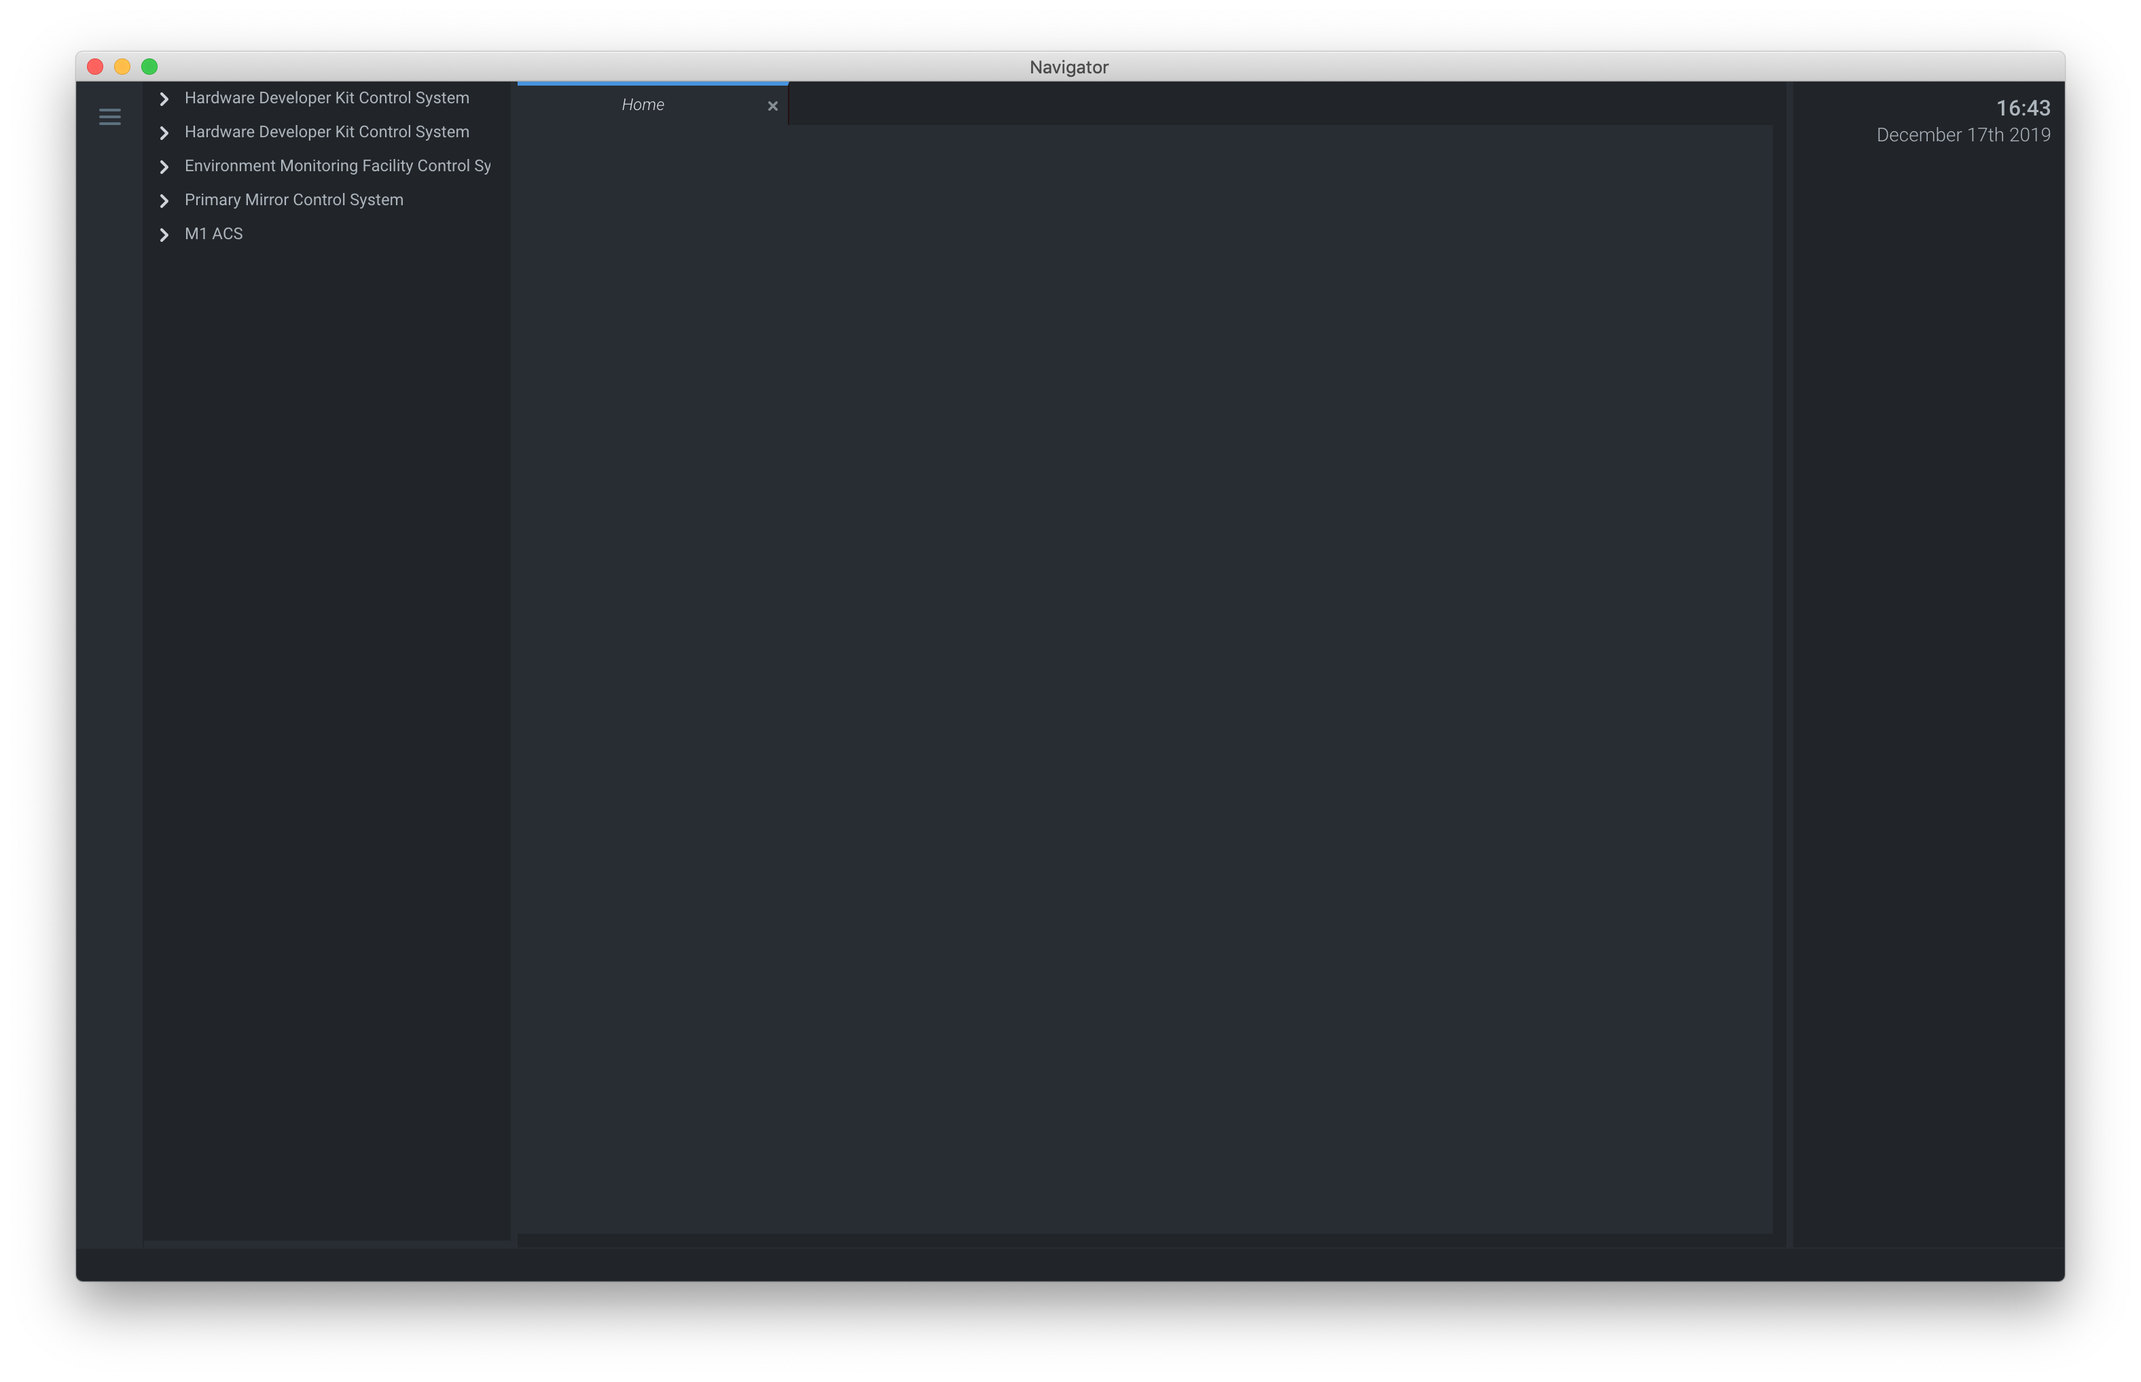
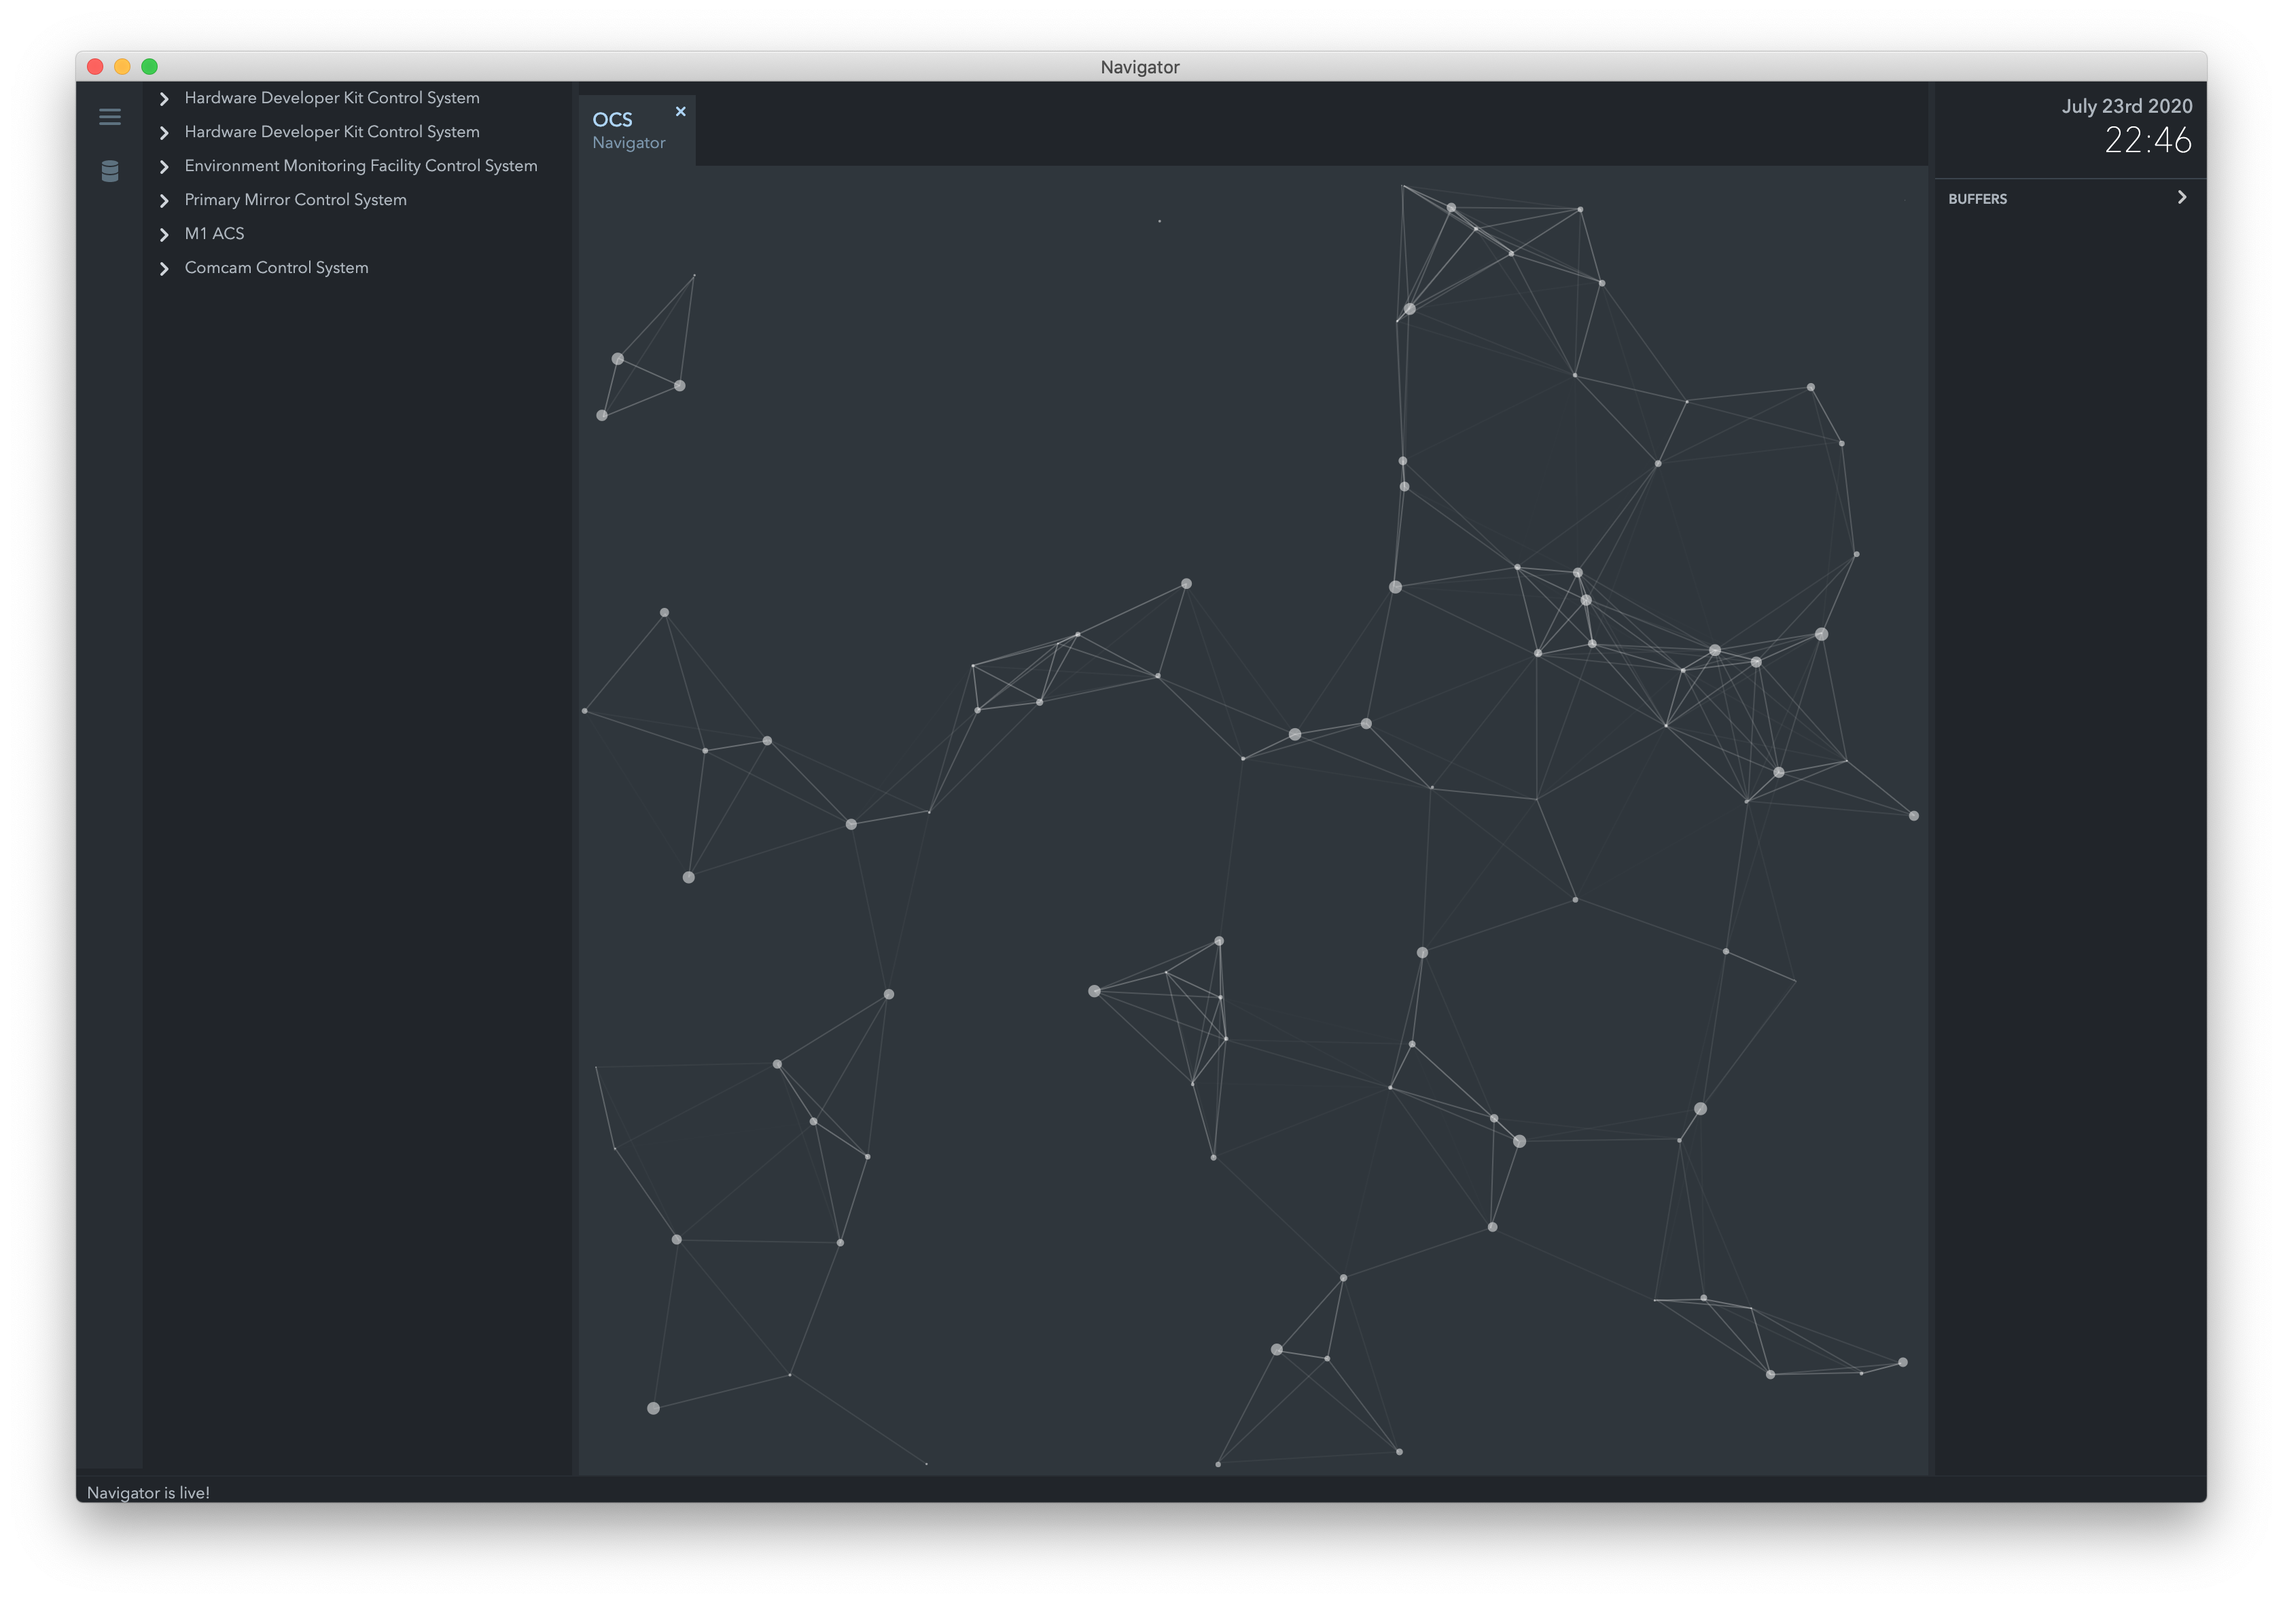
ui 1.8 update

diff --git a/src/software_development/ui_fwk.rst b/src/software_development/ui_fwk.rst
@@ -3,36 +3,31 @@
 UI Framework
 ============
 
-.. note::
-    The UI framework is currently supported on MacOS and Linux.
+The UI Framework provides a GUI toolkit for the OCS.  One of the GUI apps is called Navigator, and sometimes referred to as the "Engineering UI", as it allows you to visualize models built with OCS SDK.  You can use the Engineering UI to see the data produced and consumed by your controllers.
 
-The UI Framework introduces a set of libraries and a windowed application that provides a GUI for the OCS.  The framework handles three primary concerns
-
-* Rendering (drawing) elements to the screen (DOM) 
-* Library of re-usable UI components that can be shared across the project
-* An Engineering App that provides an interface to the OCS
+Navigator can run on MacOS or a Linux Desktop environment.  macOS Mojave, Catalina and CentOS 8 Desktop have been verified.
 
 Installation
 ------------
 
-The UI engineering app uses the local bundles defined in ``$GMT_LOCAL/etc/bundles`` to create a visual representation of your model files' input/output ports.  If the Navigator app runs in a computer separate from where you run your components, you will need to create a minimal ``$GMT_LOCAL`` environment so that Navigator can boostrap your model and configuration files from your computer.  By convention it should be a directory in your home folder.  Once you create an ``<ocs_local>`` folder, in your shell environment file, add the following to your shell. 
+To install Navigator you will need to donwload the packaged app and set up your local environment.
+
+To download for macOS click here @TODO.  To download for CentOS Desktop click here @TODO.
+
+Setting up your enviornment
+###########################
+
+The Engineering UI uses the ``gmt_env`` if you have set that up.  If you don't have that, you'll need to set up a ``$GMT_LOCAL`` environment.  This is very similar to setting up the SDK.  
 
 .. note::
     For bash, you'll need to edit the ``~\.bash_profile``. For zsh you'll need to edit ``~\.zshrc``.
 
-.. code-block:: bash
-
-    # GMT Environment
-    export GMT_LOCAL=/Users/<user>/<ocs_local>
-
-where ``<user>`` is your home folder and ``<ocs_local>`` is the designated OCS local folder. For example, my environment contains
+To set up a ``$GMT_LOCAL`` environment, first designate a directory and set your ``~\.bash_profile`` or ``~\.zshrc`` environment variables.  Asumming the path is ``/home/gmto/working_dir``, then your export should look like
 
 .. code-block:: bash
+  export GMT_LOCAL=/home/gmto/working_dir
 
-    # GMT Environment
-    export GMT_LOCAL=/Users/aroman/ocs/
-
-In the ``<ocs_local>`` directory, you'll need to create this folder structure and two files.
+Create the following folder structure in your ``$GMT_LOCAL`` directory
 
 .. code-block:: bash
 
@@ -60,47 +55,68 @@ The ``ocs_local_bundle.coffee`` should look like
         desc:      "List of local development modules"
         elements:  {}
 
-This will give you the base parameters to load the local environment. The ``elements`` key in this example is intentionally empty. This will change as you add OCS bundles.
+This will give you the base parameters to load the local environment. The ``elements`` key in this example is intentionally empty. This will change as you add OCS bundles.  You will need to have corresponding model files for the bundles you define.
 
 .. note::
     
     The bundles you define need to have corresponding webpack model files in ``$GMT_LOCAL/lib/js``.  You will need to copy these files on your own.
 
-After you've done this, download the Mac App
-
-* http://52.52.46.32/srv/gmt/releases/navigator/mac/ocs_navigator_app_1.7.0.zip
-
-You can unzip the app anywhere on your MacOS file system.  Double click on the icon to run.
+Now you can star the Navigator app by double clicking on the icon.  If you have done all of the above correctly you will see the starfield animation.
 
 .. image:: navigator_images/navigator_first_run.png
   :align: center
-  :alt: Navigator application at startup
+  :alt: Navigator on first launch.
 
-User Guide
+Seeing Data With Navigator
 ----------
 
-.. image:: navigator_images/navigator_inspect.png
+The Navigator app has some parallels with server/client model.  This is an inexact comparison, however, it's a useful analogy to explain the configuration required to see your data.  The ``server`` in this case is the environment that runs your OCS controllers, adapters, services, etc.  The ``client`` is the Navigator UI which will most likely run on a separate Linux machine with full desktop graphics support or macOS.
+
+To see data, both your client and server need to have identical models and corresponding configuration files.  While a model might describe multiple components and their relationships, a configuration file is defined for a single component at a time.  
+
+The easiest thing to do is to copy the files you have in ``$GMT_LOCAL/lib/js/*_model.js`` and ``$GMT_LOCAL/etc/conf`` on your server to your client.  Navigator uses the same paths to discover your files.  You will then need to modify your config files as follows.
+
+Server
+######
+
+On the machine where your components run, you will have to edit your configuration file so that it publishes data as a server.  In a configuration file the field you need to edit is ``properties.host.default_value`` with the value of `0.0.0.0` and not the loopback or server address.  In some cases this will require that you recompile your config files.
+
+Your server should not have the firewall enabled.  To disable the firewall ``sudo systemctl stop firewalld``.
+
+Client
+######
+
+Likewise, edit the the configuration on your client so that it points to the server IP where you're trying to see data.  You can view this address with the ``ifconfig`` command on your server.  This config will live in the ``$GMT_LOCAl/etc/conf`` directory.  Set the ``properties.host.default_value`` of the corresponding config to the valid IP of the server you're trying to connect to.
+
+
+Navigator Overview
+----------
+
+
+.. image:: navigator_images/navigator_overview.png
   :align: center
+  :target: ../_images/navigator_overview.png
+  :alt: Navigator overview.
+
+You can inspect data on any part of your component the same way you do on the command line.
+
+.. image:: navigator_images/navigator_data1.png
+  :align: center
+  :target: ../_images/navigator_data1.png
   :alt: Navigator with inspect.
 
-The navigator application contains three regions.
-
-1. **Navigation** This area contains the navigation tree.  The tree is a representation of your model and is built from information found in your local bundles.
-2. **Tabs** This area displays content in tabs.  Visualization panels will open in new tabs.
-3. **Tools** This area presents context sensitive tools.  The tools are activated when you select an element in a tab.
-
-From the navigation menu you can visually explore your model, inspect or send data to your connected instances.  
-
-.. image:: navigator_images/navigator_guide.png
+.. image:: navigator_images/navigator_data2.png
   :align: center
-  :alt: Navigator with inspect.
+  :target: ../_images/navigator_data2.png
+  :alt: Navigator  inspect.
 
-You can drag models and inputs/outputs/properties/state vars into tabs.  You can create new tabs by double-clicking the empty tab area.  You can drag and re-order tabs.  Elements dragged into the tabs can also be re-ordered by dragging the title bar and resized by dragging the bottom right corner.
+You can also send data.
 
-Launching Custom Panels
------------------------
+.. image:: navigator_images/navigator_send.png
+  :align: center
+  :target: ../_images/navigator_send.png
+  :alt: Navigator send.
 
-From the model navigation menu, select the ``Vis package`` you want to run and the Navigator app will open a new tab showing the panel.
 
 Troubleshooting Guide
 ---------------------
@@ -129,9 +145,9 @@ If that also fails, try deleting the cache directly from your disk
 If this does not fix your problem, it's possible that your bundle and your modules are inconsistent.  Check that what you define in ``$GMT_LOCAL/etc/bundles`` has a corresponding webpack file in ``$GMT_LOCAL/lib/js``.
 
 * **Unresponsive UI**: in some case if the UI becomes unresponsive, press ``CMD+R`` to refresh.  If that fails to solve the problem, restart the CLI app.
-* **No data**: Ensure that the ports used by the controllers to publish data are accessible through the firewall. The following command should be used on the Device Control Computer to open the applicable range of ports (8122 - 8124):
+* **No data**: Ensure that the ports used by the controllers to publish data are accessible through the firewall. The following will disable the firewall on CentOS:
 
   .. code-block:: bash
 
-     $ sudo firewall-cmd --add-port=8122-8124/tcp
+     $ sudo systemctl stop firewalld
  
